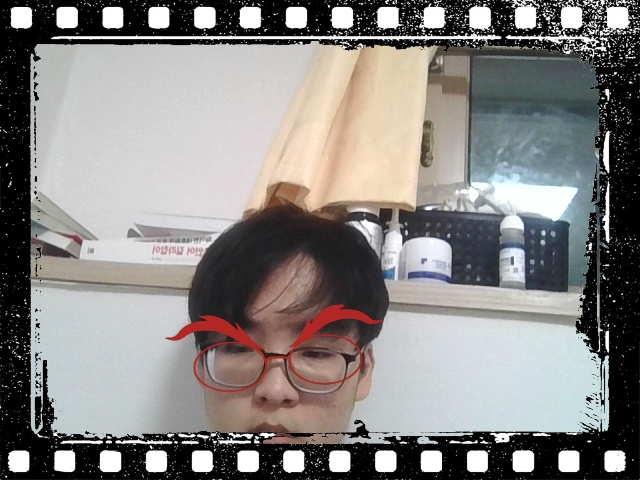
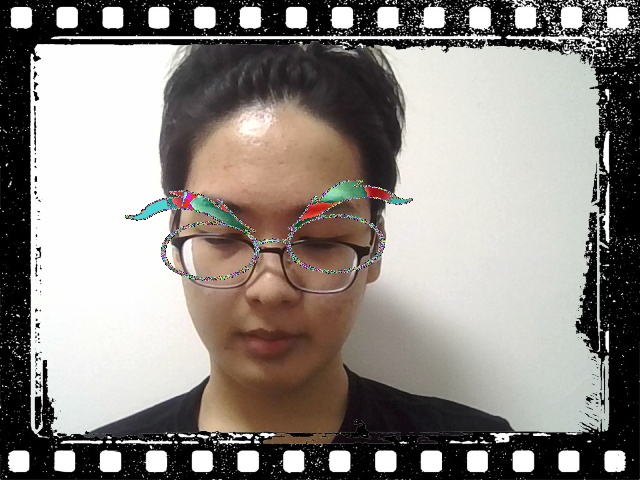
최종본

diff --git a/code 최최최최최종본(이였으면 좋겠다)/picture.py b/code 최최최최최종본(이였으면 좋겠다)/picture.py
@@ -3,6 +3,9 @@ import cv2
 import numpy as np
 import matplotlib.pyplot as plt
 import imutils
+import math
+from skimage.transform import rotate
+
 
 def take_pictures_start(filter_image_path,image,
                        x,y,filter_width,filter_height,use_number,deg):
@@ -22,56 +25,57 @@ def take_pictures_start(filter_image_path,image,
     print("이미지? 그게 뭐꼬? 그런거 없으니까 돌아가라")
     return image
   
-  print("-")
 
-  if filter_width == 0 or filter_height == 0:
+  if filter_width < 5 or filter_height < 5:
     print("filte가 안보일텐데(filter_width,filter_height) 크기가 0임")
     return image
-  else:
-    print("width,height",filter_width,filter_height)
     
 
   if image is None or image.shape[0] <= 0 or image.shape[1] <= 0:
     raise ValueError("이미지 사이즈가 왜 0? 이건 좀.")
-  
-
-
-  
-
+  '''
+  if deg>=45:
+    deg = 45
+  elif deg<=-405:
+    deg = -405
+  '''
   filter_image = cv2.imread(filter_image_path, cv2.IMREAD_UNCHANGED)
-  f_w,_,_ = filter_image.shape
-  #print(type(f_w))
-  ratio = filter_width / f_w
-
-  filter_height = int(filter_height / ratio)
-  #print(filter_width,filter_height)
-
-  filter_image = imutils.rotate_bound(filter_image,deg)
-  #theta = int(math.radians(deg))
-  #new_width = abs(width * math.cos(theta)) + abs(height * math.sin(theta))
-  #new_height = abs(width * math.sin(theta)) + abs(height * math.cos(theta))
-  filter_image = cv2.resize(filter_image,dsize=(filter_width*2,filter_height*2))#filter_width and height -> new로 바꾸기
-
-  filter_alpha = filter_image[:, : ,3]
-  filter_mask = filter_alpha / 255
-
-  for i in range(0,3):
-    #print(filter_image[:, : , i].shape,image[y-filter_height:y+filter_height, x - filter_width :x + filter_width,i].shape)
-
-    if filter_width + x + 10 >i_w or x - filter_width - 10 < 0:
+  if filter_image is None:
+      print("필터 이미지를 불러올 수 없습니다.")
       return image
-    
-    if filter_height + y + 10 >i_h or y - filter_height - 10 < 0:
-      return image
-    
-    image[y-filter_height : y+filter_height ,x-filter_width:x + filter_width,i] = (
-      (filter_image[:, : , i] * filter_mask) + 
-      (image[y-filter_height:y+filter_height, x - filter_width :x + filter_width,i] * ( 1 - filter_mask ))
+
+  filter_image = cv2.resize(filter_image, (filter_width * 2, filter_height * 2))
+  filter_image = imutils.rotate_bound(filter_image, deg)
+
+  filter_rgb = filter_image[:, :, :3]
+  filter_alpha = filter_rgb / 255
+
+  # 필터 위치 계산
+  h, w, _ = filter_image.shape
+  top_left_x = max(0, x - w // 2)
+  top_left_y = max(0, y - h // 2)
+  bottom_right_x = min(i_w, x + w // 2)
+  bottom_right_y = min(i_h, y + h // 2)
+
+  # 필터 이미지의 좌표 범위 계산
+  filter_top_left_x = max(0, (w // 2) - x)
+  filter_top_left_y = max(0, (h // 2) - y)
+  filter_bottom_right_x = filter_top_left_x + (bottom_right_x - top_left_x)
+  filter_bottom_right_y = filter_top_left_y + (bottom_right_y - top_left_y)
+
+  # 이미지에 필터 적용
+  for i in range(3):
+      image[top_left_y:bottom_right_y, top_left_x:bottom_right_x, i] = (
+          filter_rgb[filter_top_left_y:filter_bottom_right_y, filter_top_left_x:filter_bottom_right_x, i] *
+          filter_alpha[filter_top_left_y:filter_bottom_right_y, filter_top_left_x:filter_bottom_right_x] +
+          image[top_left_y:bottom_right_y, top_left_x:bottom_right_x, i] *
+          (1 - filter_alpha[filter_top_left_y:filter_bottom_right_y, filter_top_left_x:filter_bottom_right_x])
       )
-  
-    
 
   return image
+    
+
+  return image  
 
 def frame_image(image,frame_image_path):
 
@@ -80,7 +84,7 @@ def frame_image(image,frame_image_path):
     return image
   
   i_w,i_h,_ = image.shape
-
+  
  
   frame_image = cv2.imread(frame_image_path, cv2.IMREAD_UNCHANGED)
   frame_image = cv2.resize(frame_image,dsize=(i_h,i_w))

diff --git a/code 최최최최최종본(이였으면 좋겠다)/main.py b/code 최최최최최종본(이였으면 좋겠다)/main.py
@@ -75,11 +75,11 @@ with mp_face_mesh.FaceMesh(
                 landmark_9_y = int(face_landmarks.landmark[9].y * image_height)
                 landmark_6_y = int(face_landmarks.landmark[6].y * image_height)
                 filter_width = landmark_446_x - landmark_225_x
+                filter_height = int(filter_width * 0.3)
                 #print("landmark_x",landmark_446_x,landmark_225_x)
                 #print("landmark_y",landmark_6_y,landmark_9_y)
                 #print("width,height",filter_width,filter_height)
-                filter_height = (landmark_6_y - landmark_9_y)
-                #print(f'x{x} y{y}')
+                #print(f'x{x} y{y}') 
 
                 a = landmark_446_x - landmark_225_x
                 b = int(face_landmarks.landmark[446].y*image_height) - int(face_landmarks.landmark[225].y*image_height) 
